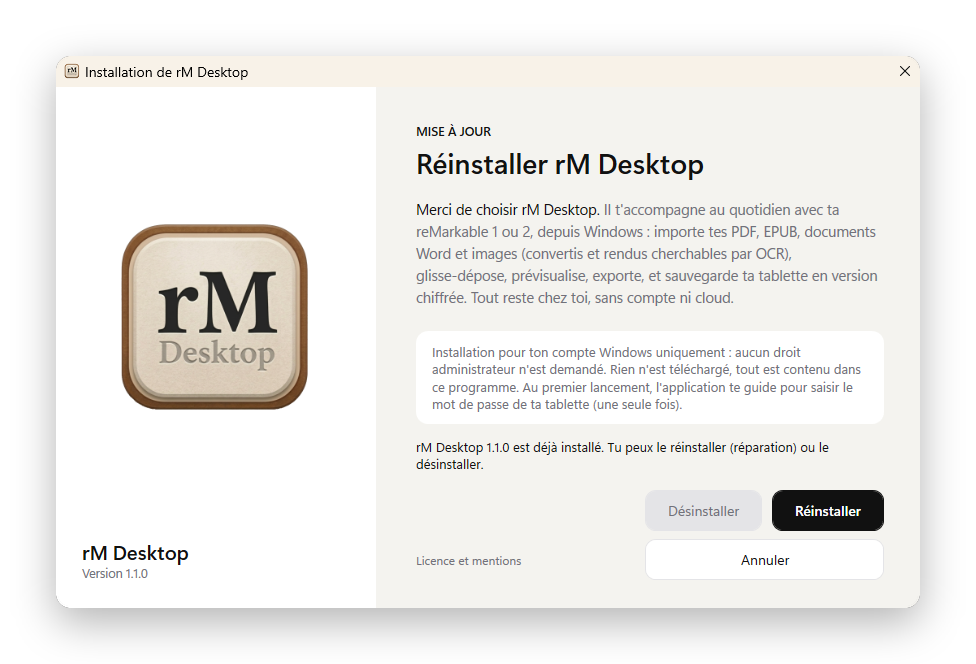
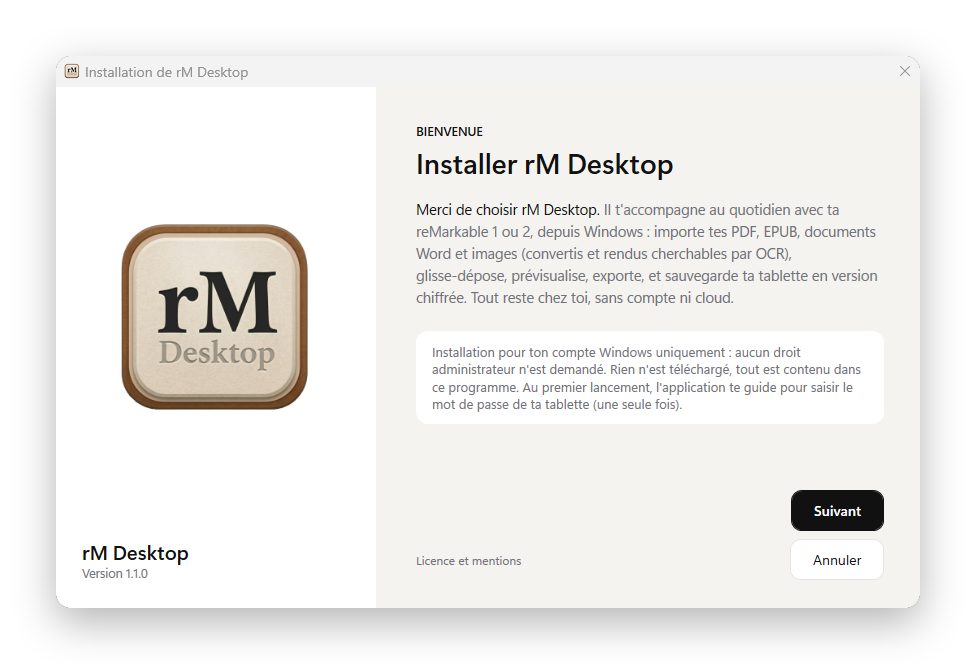
README : capture de l'installeur en première installation
Remplace l'écran « Réinstaller » par l'écran de bienvenue d'une première
installation (« Installer rM Desktop », bouton « Suivant »).

diff --git a/README.md b/README.md
@@ -27,7 +27,7 @@ Captures réalisées avec des noms de dossiers et de livres d'exemple.</em></p>
 <p align="center"><em>Au démarrage : chargement, puis détection de la tablette branchée en USB.</em></p>
 
 <p align="center">
-  <img src="captures/00-installeur.png" alt="Assistant d'installation de rM Desktop" width="560">
+  <img src="captures/00-installeur.png" alt="Assistant d'installation de rM Desktop : écran de bienvenue" width="560">
 </p>
 
 <p align="center"><em>L'assistant d'installation, sans droit administrateur.</em></p>
